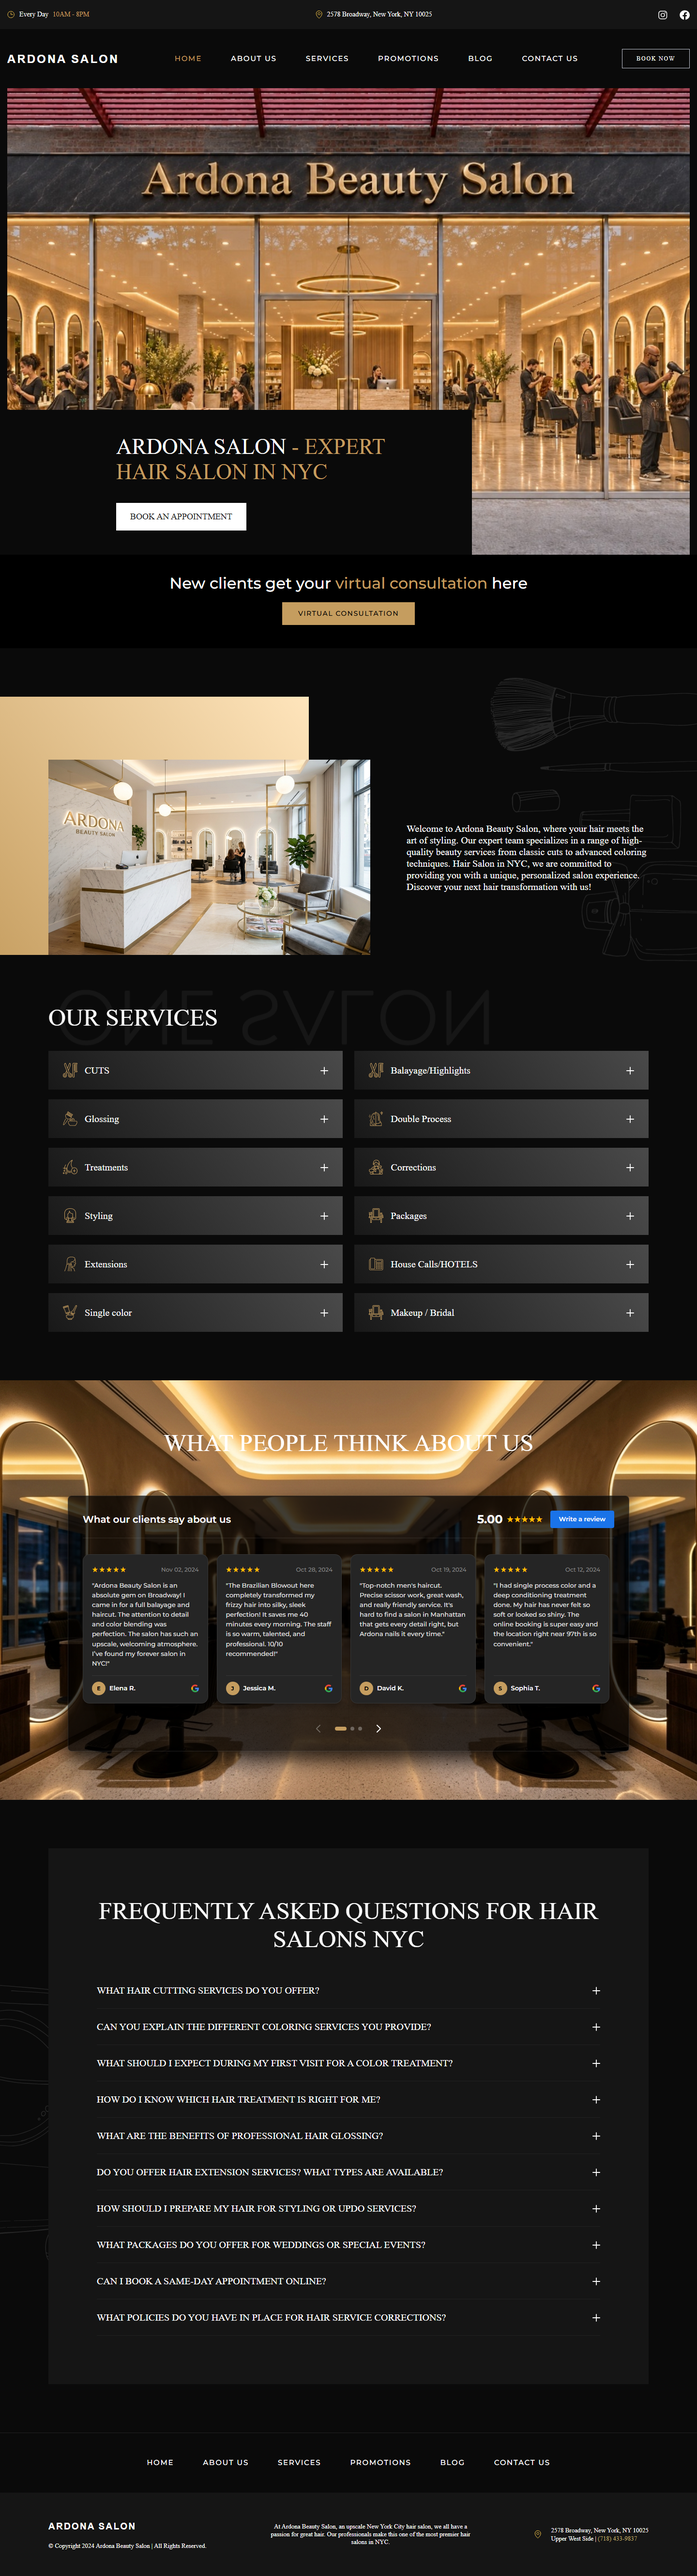
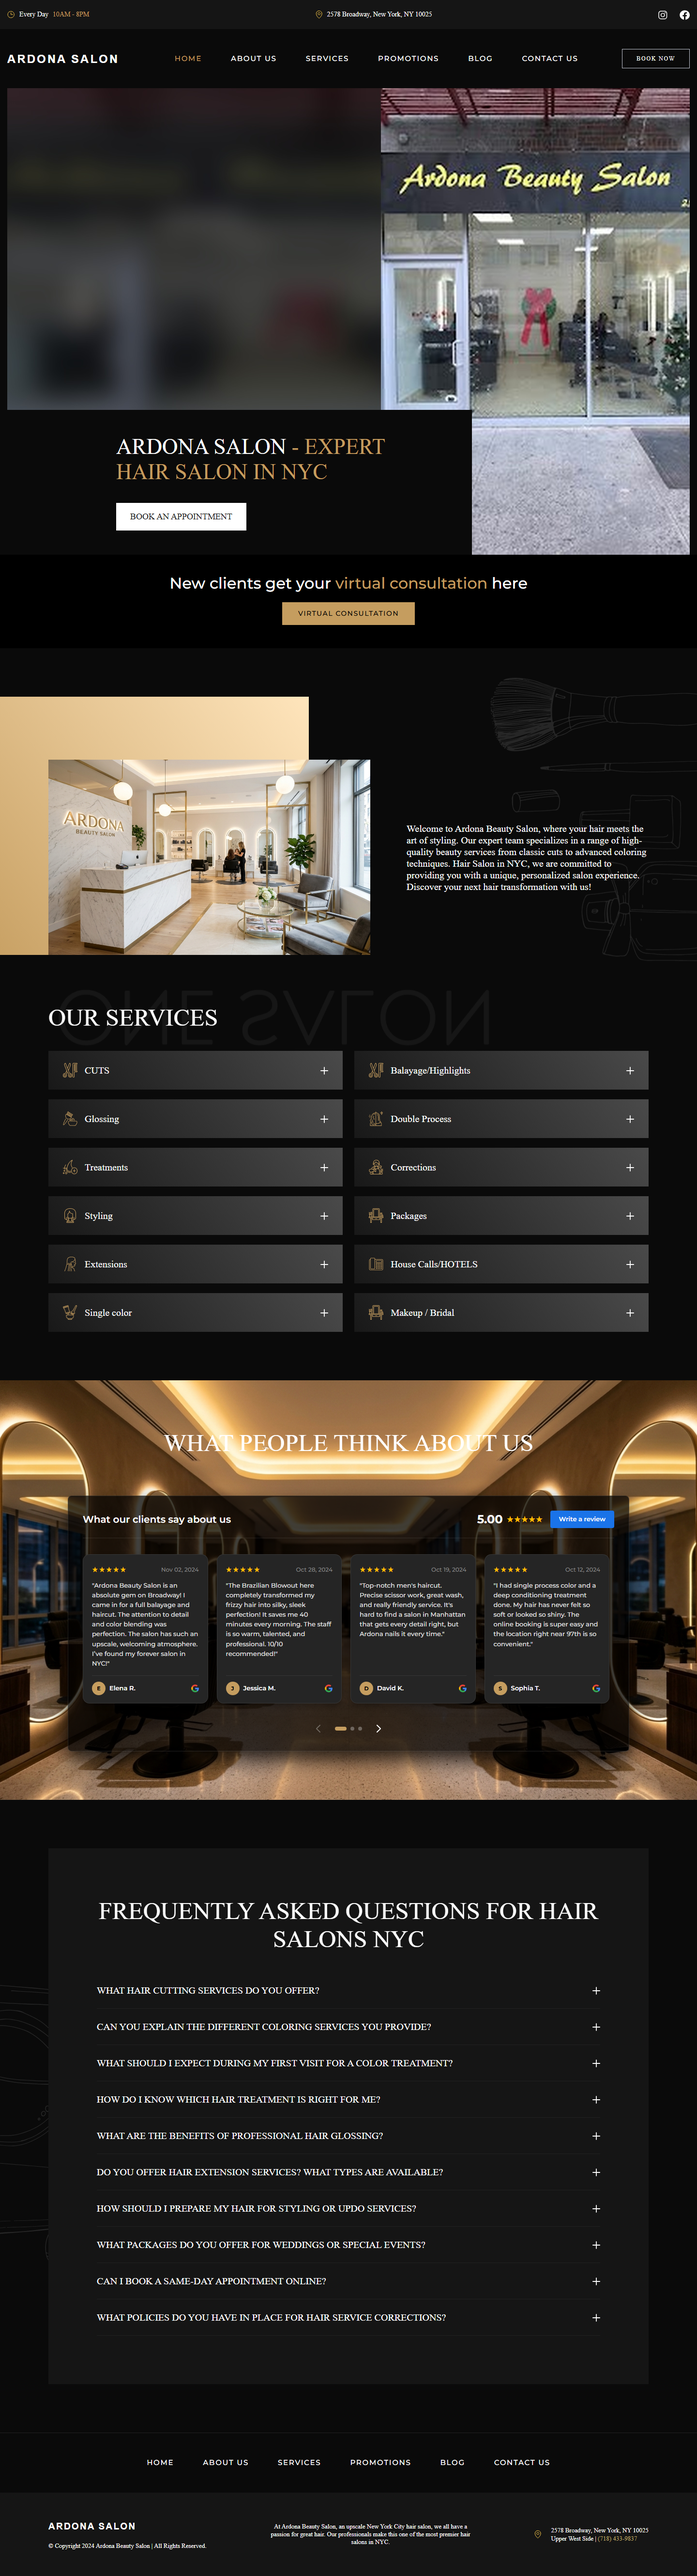
feat: use real storefront photo with 100% full visibility and zero cropping on mobile

Changed region(s): [[0.0, 0.0312, 1.0, 0.2185]]

diff --git a/src/styles/onesalon.css b/src/styles/onesalon.css
@@ -131,6 +131,9 @@ header .menu ul li a:hover {
 .container.full {
   max-width: 1720px;
 }
+.mobile-hero-media {
+  display: none;
+}
 section.section-banner {
   height: 963px;
   background-image: url(/images/hero-banner.jpg);
@@ -985,9 +988,28 @@ section.section-services.after .brd {
 }
 @media only screen and (max-width: 776px) {
   section.section-banner {
-    background-image: url(/images/hero-banner-mobile.jpg) !important;
-    background-position: 54% top !important;
-    background-size: cover !important;
+    height: auto !important;
+    min-height: 0 !important;
+    background-image: none !important;
+    display: flex !important;
+    flex-direction: column !important;
+    padding: 0 !important;
+  }
+  .mobile-hero-media {
+    display: block !important;
+    width: 100% !important;
+    background: #000;
+  }
+  .mobile-storefront-img {
+    width: 100% !important;
+    height: auto !important;
+    display: block !important;
+    object-fit: contain !important;
+  }
+  .heading-banner {
+    width: 100% !important;
+    padding: 30px 20px 25px 20px !important;
+    background: #0A0A0A !important;
   }
   .entry-content .img-blog {
 		width: 100%;
@@ -1122,7 +1144,7 @@ section.section-services.after .brd {
 		margin: 0 0 20px 0;
     }
 	section.section-banner {
-        height: 500px;
+        height: auto;
     }
 	.heading-banner {
         padding: 50px 50px 30px 15px;
@@ -1232,7 +1254,7 @@ section.section-services.after .brd {
         padding: 11px 20px;
     }
 	section.section-banner {
-        height: 350px;
+        height: auto;
     }
 	header .section-header {
 		padding: 30px 0;

diff --git a/src/components/Hero.tsx b/src/components/Hero.tsx
@@ -6,6 +6,14 @@ export const Hero: React.FC = () => {
     <>
       <div className="container full">
         <section id="home" className="section-banner">
+          <div className="mobile-hero-media">
+            <img
+              src="/images/hero-banner-mobile.jpg"
+              alt="Ardona Beauty Salon Storefront 2578 Broadway NYC"
+              className="mobile-storefront-img"
+            />
+          </div>
+
           <div className="heading-banner">
             <h1>
               <span>Ardona Salon</span> - Expert <br />
